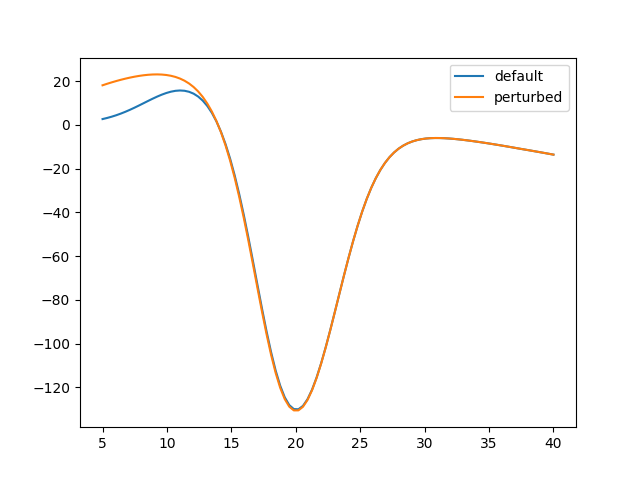
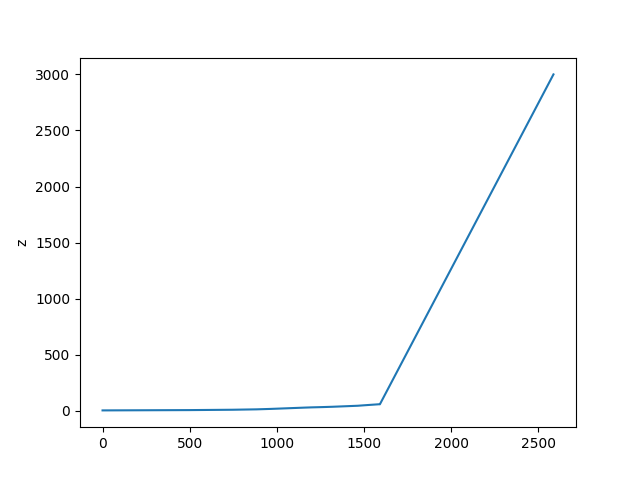
new limits for paramters

diff --git a/code_history/final/unit_test/test_limits.py b/code_history/final/unit_test/test_limits.py
@@ -27,22 +27,40 @@ def call_ares (params, redshifts):
     """
     
     #running ares
-    sim1 = ares.simulations.Global21cm(verbose=False, progress_bar=False)    
-    sim1.run()  
+    sim1 = ares.simulations.Global21cm(verbose=False, progress_bar=False)
+    sim2 = ares.simulations.Global21cm(**params, verbose=False, progress_bar=False)
+    
+    sim1.run()
+    sim2.run()
+    
     z1 = sim1.history['z'][::-1]
     dTb1 = sim1.history['dTb'][::-1]
     
-    #z1 = z1[z1<50]
-    #dTb1 = dTb1 [:len(z1)]
-    #spline1 = CubicSpline(z1, dTb1)
+    z2 = sim2.history['z'][::-1]
+    dTb2 = sim2.history['dTb'][::-1]
     
-    #return spline1(redshifts)
-    return z1
+    z1 = z1[z1<50]
+    dTb1 = dTb1 [:len(z1)]
+    spline1 = CubicSpline(z1, dTb1)
+    
+    z2 = z2[z2<50]
+    dTb2 = dTb2 [:len(z2)]
+    spline2 = CubicSpline(z2, dTb2)
+    
+    return spline1(redshifts), spline2(redshifts)
 
+#clumping_factor: 0-40
+#pop_rad_yield_0_: 1E2 - 1E10 
+#pop_rade_yield_1_: 0 - 1E41
+#pop_rade_yield_2_: 0 - 1E6 
+
+#params = {'pop_rad_yield_0_': , 'pop_rad_yield_1_': , 'pop_rad_yield_2_': , 'clumping_factor': 1} 
+#params = {'clumping_factor': 40}
 params = {'pop_rad_yield_0_': 2}
 
 z = np.linspace(5, 40, 100)
-z_a = call_ares(params, z)
-plt.plot(z_a)
-plt.ylabel('z')
+default, perturb= call_ares(params, z)
+plt.plot(z, default, label= "default")
+plt.plot(z, perturb, label= "perturbed")
+plt.legend()
 plt.savefig('test.png')

diff --git a/code_history/range/range.py b/code_history/range/range.py
@@ -43,15 +43,15 @@ z = np.linspace(5, 40, 100)
 #pop_rade_yield_2_: 0 - 1E8 but it can go upper
 #clumping_factor: 0-76
 
-#clumping_factor: 0-40
 #pop_rad_yield_0_: 1E2 - 1E10 
 #pop_rade_yield_1_: 0 - 1E41
 #pop_rade_yield_2_: 0 - 1E6 
+#clumping_factor: 0-40
 
 rad_0 = np.linspace(2, 10, 10)
 rad_1 = np.linspace(0, 41, 10)
-rad_2 = np.linspace(0, 6 10)
-clf = np.linspace(0, 40, )
+rad_2 = np.linspace(0, 6, 10)
+clf = np.linspace(0, 40, 10)
 #-----------------------------------------------------------------------------------------------------------------------------------
 
 accepted = []
